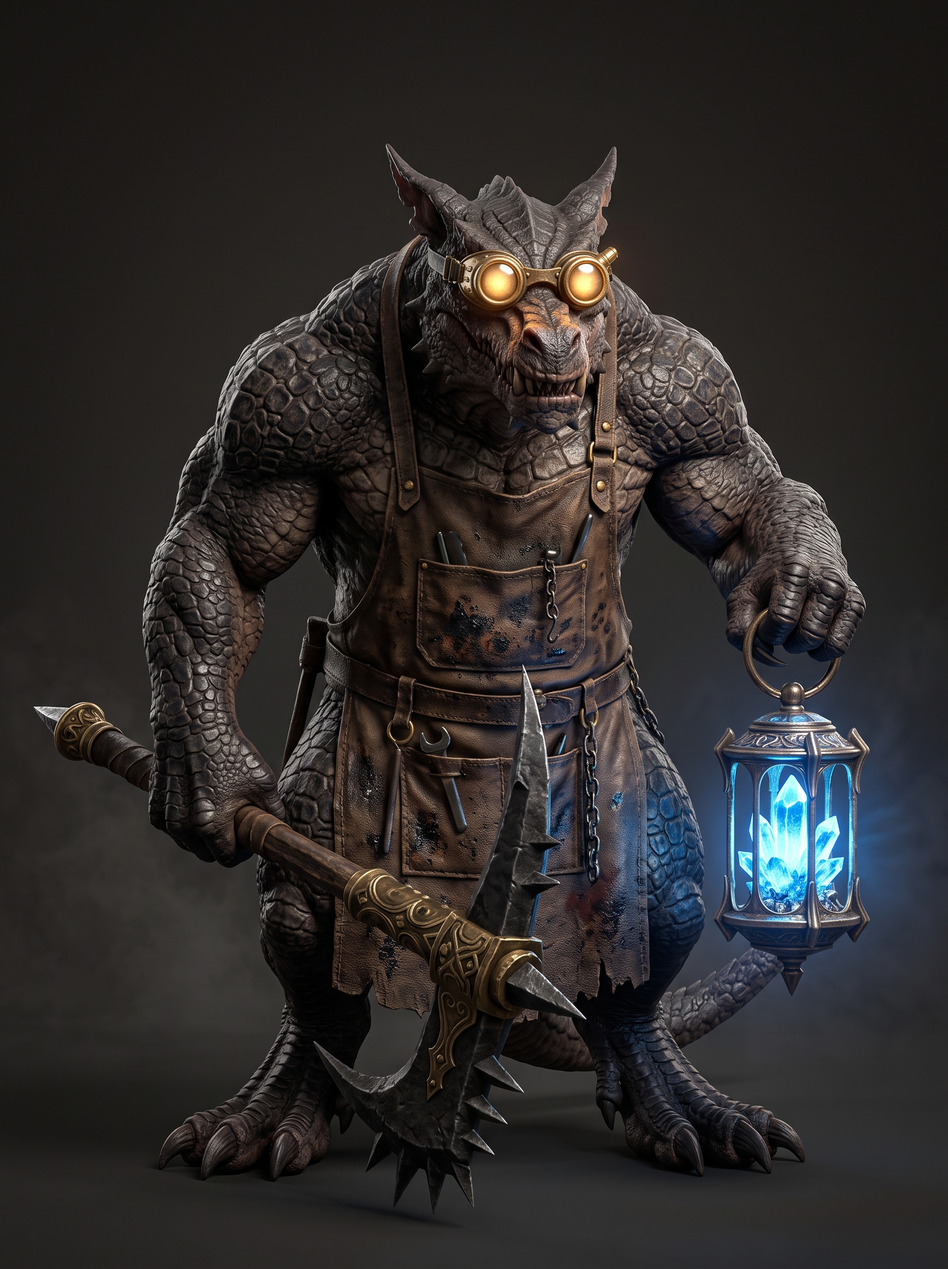
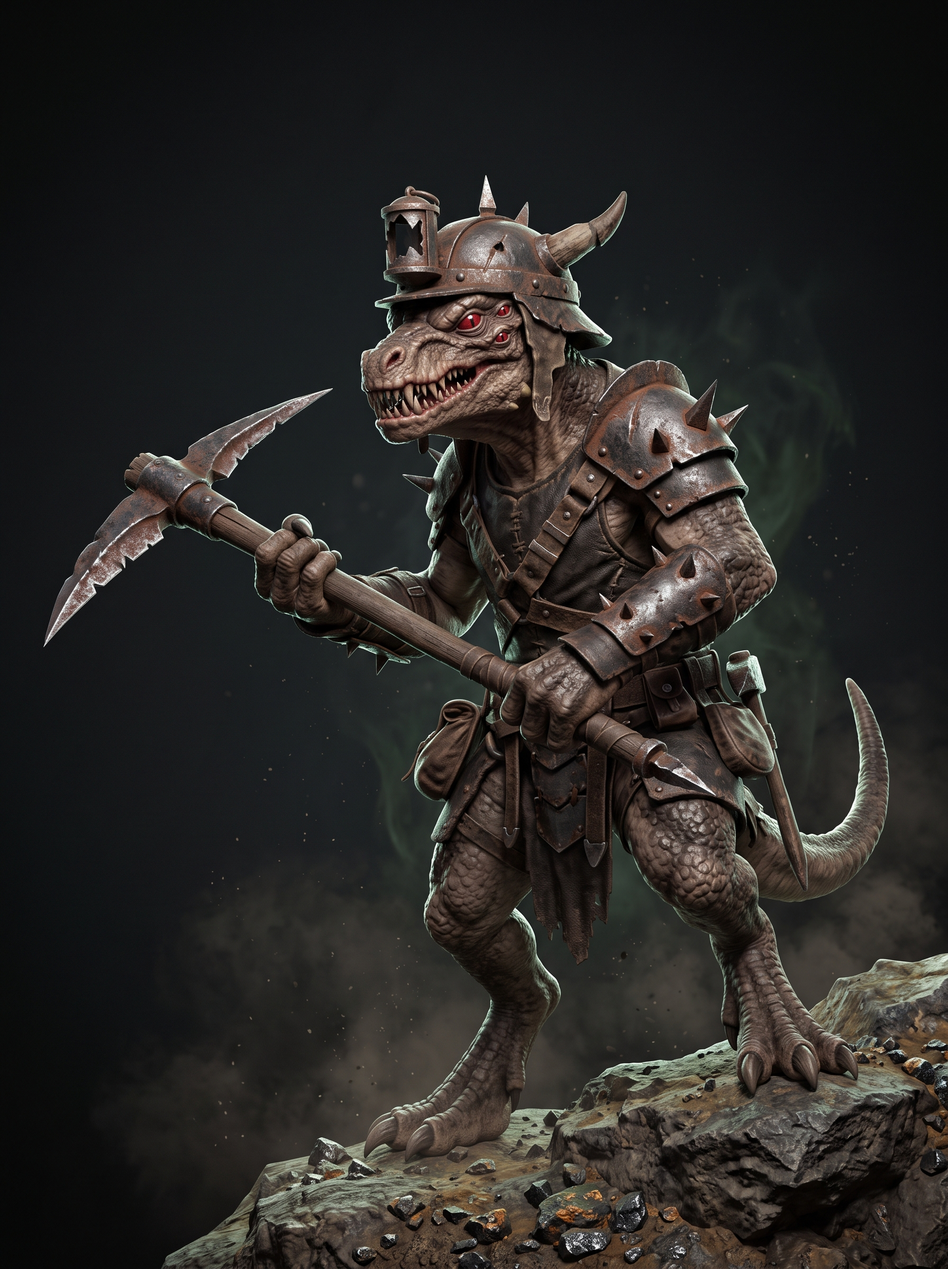
feat(art): integrate 65 new monster illustrations across first 10 zones

diff --git a/lineage-idle/art.js b/lineage-idle/art.js
@@ -166,16 +166,16 @@ export const MON_IMG = {
   "goblinThief": "/img/mon_goblinthief.jpg",
   "armoredGoblin": "/img/mon_armoredgoblin.jpg",
   "goblinMage": "/img/mon_goblinmage.jpg",
-  "talkingIslandWerewolf": "/img/mon_wolf.jpg",
+  "talkingIslandWerewolf": "/img/mon_islandwerewolfleader.jpg",
   "goblinKing": "/img/mon_goblinking.jpg",
 
   // Elven Forest
   "wolf": "/img/mon_wolf.jpg",
-  "grayWolf": "/img/mon_rootwolf.jpg",
+  "grayWolf": "/img/mon_graywolf.jpg",
   "rootWitch": "/img/mon_rootwitch.jpg",
-  "greenDryad": "/img/mon_rootwitch.jpg",
-  "sporeFungus": "/img/mon_swampwalker.jpg",
-  "kabooOrcFighter": "/img/mon_orcwarrior.jpg",
+  "greenDryad": "/img/mon_greendryad.jpg",
+  "sporeFungus": "/img/mon_sporefungus.jpg",
+  "kabooOrcFighter": "/img/mon_kabooorcchampion.jpg",
   "deathTrent": "/img/mon_deathtreant.jpg",
   "deathTreant": "/img/mon_deathtreant.jpg",
 
@@ -183,68 +183,68 @@ export const MON_IMG = {
   "spider": "/img/mon_spider.jpg",
   "caveSpider": "/img/mon_spider.jpg",
   "swampWalker": "/img/mon_swampwalker.jpg",
-  "lesserDarkHorror": "/img/mon_darkmage.png",
-  "marshStalker": "/img/mon_swampbeast.jpg",
-  "shadowFangWolf": "/img/mon_direwolf.png",
-  "darkForestMatriarch": "/img/mon_spider.jpg",
+  "lesserDarkHorror": "/img/mon_lesserdarkhorror.jpg",
+  "marshStalker": "/img/mon_marshstalker.jpg",
+  "shadowFangWolf": "/img/mon_shadownfangdirewolf.jpg",
+  "darkForestMatriarch": "/img/mon_darkforestmatriarch.jpg",
 
   // Orc Village
   "orc": "/img/mon_orcwarrior.jpg",
   "orcWarrior": "/img/mon_orcwarrior.jpg",
-  "kashaWolf": "/img/mon_wolf.jpg",
-  "kashaBear": "/img/mon_orcwarrior.jpg",
-  "kashaOrcArcher": "/img/mon_orcwarrior.jpg",
-  "kashaOrcBerserker": "/img/mon_orcoverlord.jpg",
-  "kashaOrcOverlord": "/img/mon_orcoverlord.jpg",
+  "kashaWolf": "/img/mon_kashawolf.jpg",
+  "kashaBear": "/img/mon_kashabear.jpg",
+  "kashaOrcArcher": "/img/mon_kashaorcarcher.jpg",
+  "kashaOrcBerserker": "/img/mon_kashaorcberserker.jpg",
+  "kashaOrcOverlord": "/img/mon_kashaorcoverlord.jpg",
 
   // Dwarven Mine
   "kobold": "/img/mon_koboldminer.jpg",
   "koboldMiner": "/img/mon_koboldminer.jpg",
-  "goblinBrigand": "/img/mon_goblinthief.jpg",
-  "mineCaveBat": "/img/mon_spider.jpg",
-  "mithrilGolem": "/img/mon_koboldminer.jpg",
-  "koboldLeader": "/img/mon_koboldminer.jpg",
-  "dwarvenEarthLord": "/img/mon_antharas.png",
+  "goblinBrigand": "/img/mon_goblinbrigand.jpg",
+  "mineCaveBat": "/img/mon_mithrilcavebat.jpg",
+  "mithrilGolem": "/img/mon_mithrilgolem.jpg",
+  "koboldLeader": "/img/mon_koboldforeman.jpg",
+  "dwarvenEarthLord": "/img/mon_dwarvenmineguardian.jpg",
 
   // Kamael Lair
-  "kamaelScout": "/img/mon_scout.png",
-  "soullessScout": "/img/mon_scout.png",
-  "spitefulGhost": "/img/mon_furioussouls.png",
-  "crimsonWarder": "/img/mon_scout.png",
-  "kamaelInfiltrator": "/img/mon_shadowmercenary.png",
-  "darkInquisitorKamael": "/img/mon_scout.png",
+  "kamaelScout": "/img/mon_kamaelscout.jpg",
+  "soullessScout": "/img/mon_soullessscout.jpg",
+  "spitefulGhost": "/img/mon_spitefulsoulghost.jpg",
+  "crimsonWarder": "/img/mon_crimsonwarder.jpg",
+  "kamaelInfiltrator": "/img/mon_kamaelinfiltrator.jpg",
+  "darkInquisitorKamael": "/img/mon_kamaelinquisitor.jpg",
 
   // Ruined Outpost
-  "ruinedGoblinThief": "/img/mon_goblinthief.jpg",
-  "ruinedOrc": "/img/mon_orcwarrior.jpg",
-  "outpostMarksman": "/img/mon_scout.png",
-  "ruinedDeserter": "/img/mon_knight.png",
-  "shadowMercenary": "/img/mon_shadowmercenary.png",
-  "outpostFallenCaptain": "/img/mon_shadowmercenary.png",
+  "ruinedGoblinThief": "/img/mon_ruinedgoblinthief.jpg",
+  "ruinedOrc": "/img/mon_ruinedorc.jpg",
+  "outpostMarksman": "/img/mon_outpostmarksman.jpg",
+  "ruinedDeserter": "/img/mon_ruineddeserter.jpg",
+  "shadowMercenary": "/img/mon_shadowmercenary.jpg",
+  "outpostFallenCaptain": "/img/mon_outpostfallencaptain.jpg",
 
   // Howling Moor
   "direWolf": "/img/mon_direwolf.png",
-  "babyTiamat": "/img/mon_babytiamat.png",
-  "crimsonBabyDragon": "/img/mon_crimsombabydragon.png",
-  "ancientSatyr": "/img/mon_ancientsathyr.png",
-  "satyrWarlord": "/img/mon_ancientsathyr.png",
-  "alphaWolf": "/img/mon_alphawolf.png",
+  "babyTiamat": "/img/mon_babytiamat.jpg",
+  "crimsonBabyDragon": "/img/mon_crimsonbabydragon.jpg",
+  "ancientSatyr": "/img/mon_ancientsatyr.jpg",
+  "satyrWarlord": "/img/mon_satyrwarlord.jpg",
+  "alphaWolf": "/img/mon_alphawolf.jpg",
 
   // Giran Outskirts
-  "skeleton": "/img/mon_skeleton.png",
-  "skeletonArcher": "/img/mon_skeleton.png",
-  "deathRider": "/img/mon_deathrider.png",
-  "giranGargoyle": "/img/mon_minotaurknight.png",
-  "giranGladiator": "/img/mon_minotaurknight.png",
-  "minotaurKnight": "/img/mon_minotaurknight.png",
+  "skeleton": "/img/mon_skeleton.jpg",
+  "skeletonArcher": "/img/mon_skeletonarcher.jpg",
+  "deathRider": "/img/mon_deathrider.jpg",
+  "giranGargoyle": "/img/mon_girangargoyle.jpg",
+  "giranGladiator": "/img/mon_girangladiator.jpg",
+  "minotaurKnight": "/img/mon_minotaurknight.jpg",
 
   // Orcen Ruins
-  "orcenRuinsOrc": "/img/mon_orcwarrior.jpg",
-  "cursedWarrior": "/img/mon_cursedwarior.png",
-  "ruinShamanOrc": "/img/mon_orcmage.jpg",
-  "tombLooterOrc": "/img/mon_orcwarrior.jpg",
-  "ancientOrcExecutioner": "/img/mon_orcoverlord.jpg",
-  "orcenOverlord": "/img/mon_orcenoverlord.jpg",
+  "orcenRuinsOrc": "/img/mon_orcenruinsorc.jpg",
+  "cursedWarrior": "/img/mon_cursedwarrior.jpg",
+  "ruinShamanOrc": "/img/mon_ruinshamanorc.jpg",
+  "tombLooterOrc": "/img/mon_tomblooterorc.jpg",
+  "ancientOrcExecutioner": "/img/mon_ancientorcexecutioner.jpg",
+  "orcenOverlord": "/img/mon_orcoverlord.jpg",
 
   // Forsaken Crypt
   "darkMage": "/img/mon_darkmage.png",
